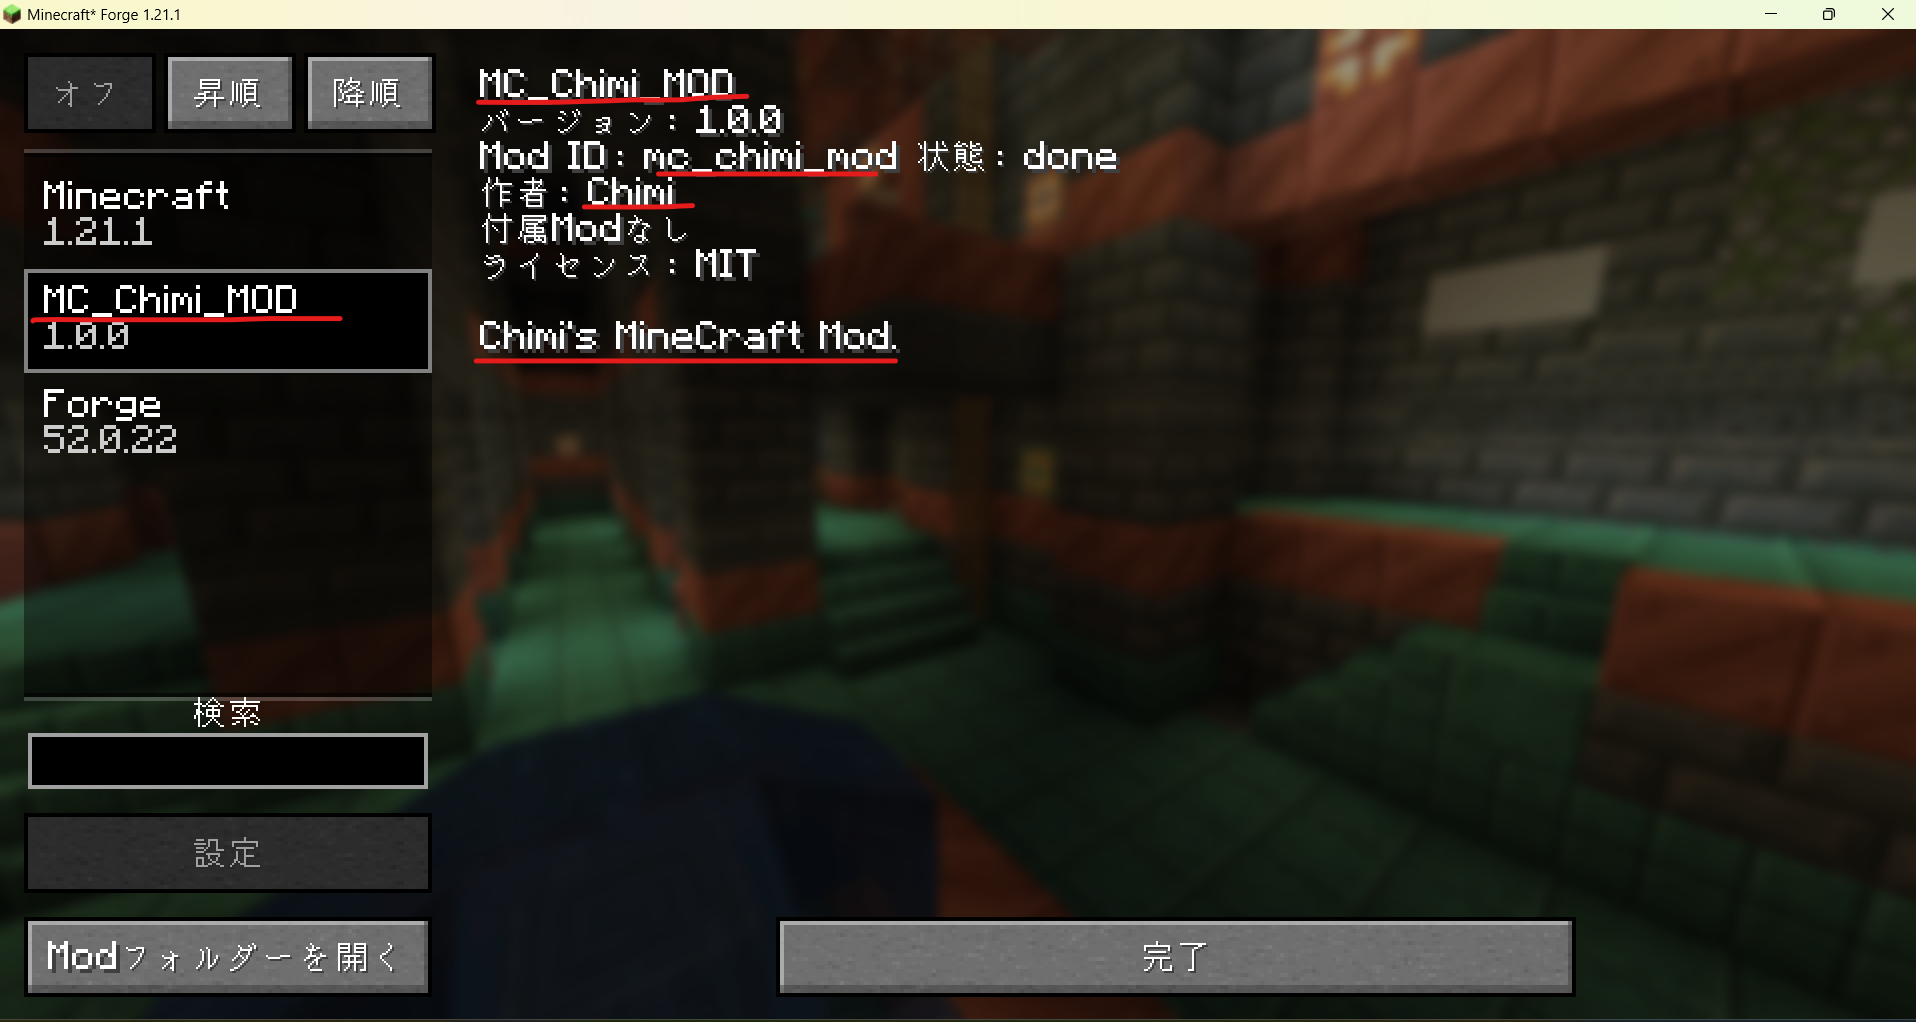
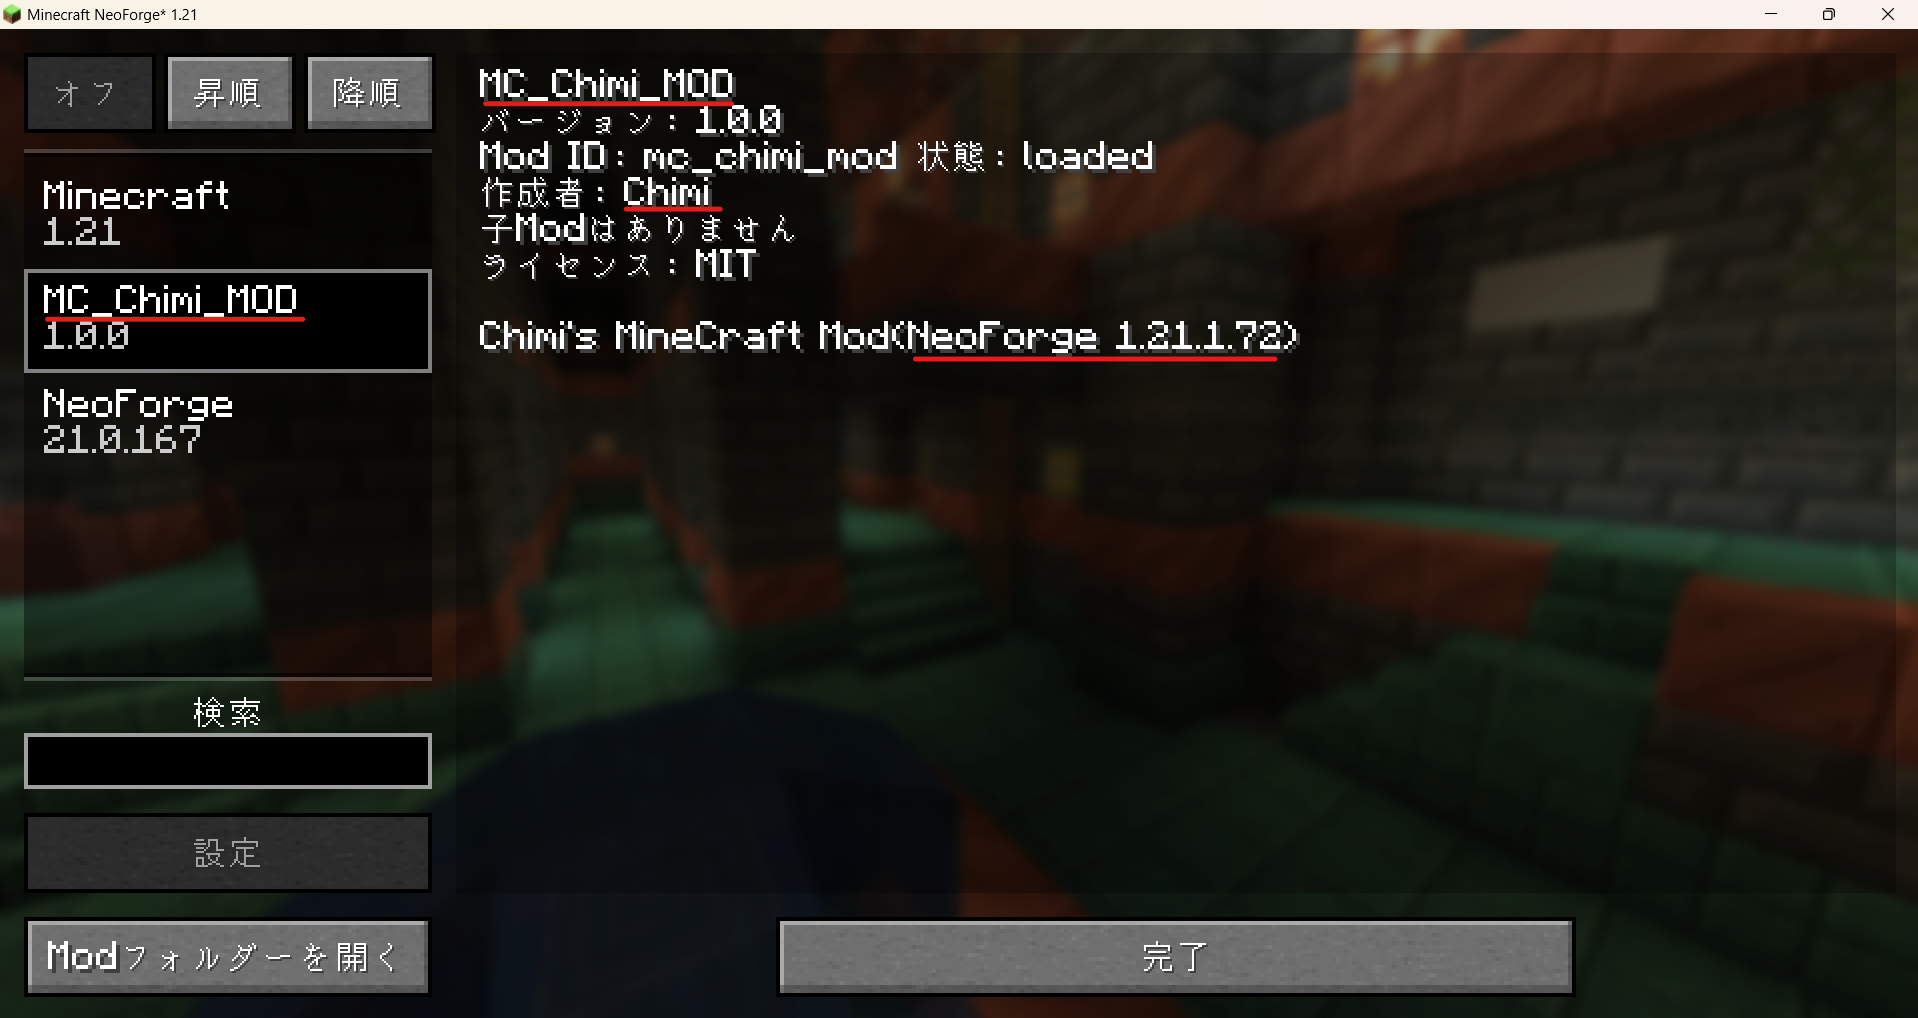
NeoForgeの表示画像に変更

diff --git a/README.md b/README.md
@@ -6,7 +6,7 @@ NeoForgeでのマイクラMOD開発リポジトリ🥳
  - MC ... MineCraft Java 1.21.1
 
 ## MOD概要
-![mod](doc/mod_tab.png)
+![alt text](image.png)
+<!-- ![mod](doc/mod_tab.png) -->
 <!-- ![gif](doc/info.gif) -->
- <!-- ![mod_read_img](doc/mod_read.png) -->
-<!-- ![alt text](image.png) -->
+ <!-- ![mod_read_img](doc/mod_read.png) -->>
